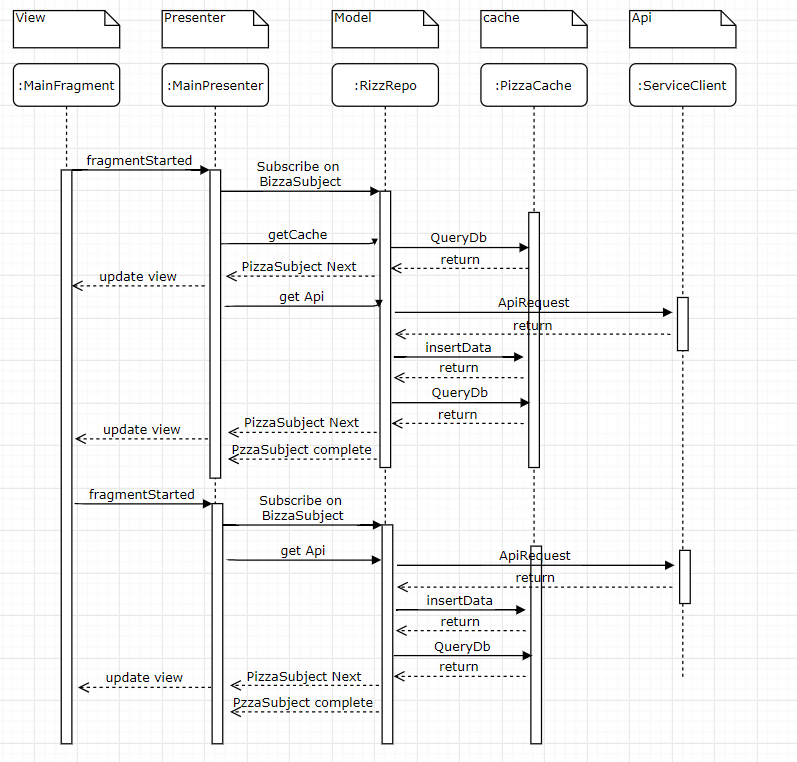
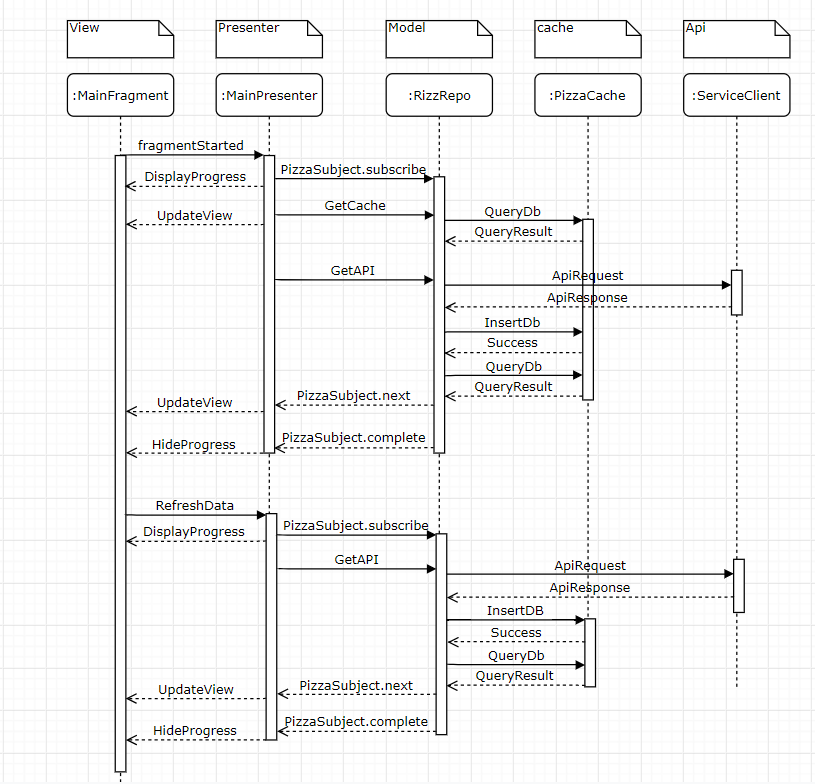
update readme

Changed region(s): [[0.0602, 0.1811, 0.9335, 0.9961], [0.0, 0.0, 0.9937, 0.1509]]

diff --git a/README.md b/README.md
@@ -12,13 +12,16 @@
 
 - I am not using the Controller or Controller listener because I rely on the Repository to manage
     complex data access.
+- I use SwipeRefreshLayout for double job
+    1. pull to refresh the data instead of refresh button
+    2. display refreshing when api request in progress instead of Dialog
 - There are some leaks in this architecture like the presenter will never survive the configuration
     changes like screen rotation, and you always need to keep checking if the view still alive before
-    update it, to avoid nullPointExeption.
+    update it, to avoid nullPointException.
 - I have not used dagger for dependency injection, instead I build simple DI manually to provide
     the required dependency, for task purpose.
 - I use RX only to manage the communication between the Repo and Presenter.
-- In the Repository i am not forward the Api response directry to the presenter ,
+- In the Repository i am not forward the Api response directly to the presenter ,
     instead i wait the data to be save in db then i query db for new data ,
     this give me single source of trust "in this situation the db" to avoid data redundancy,
     and easy maintain data from different sources .
